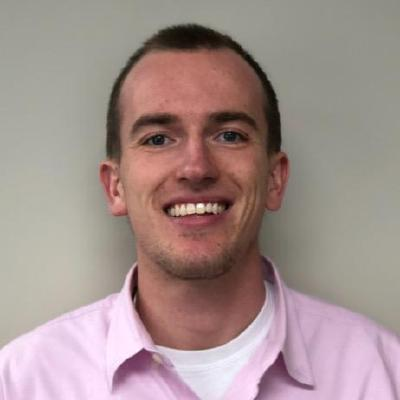
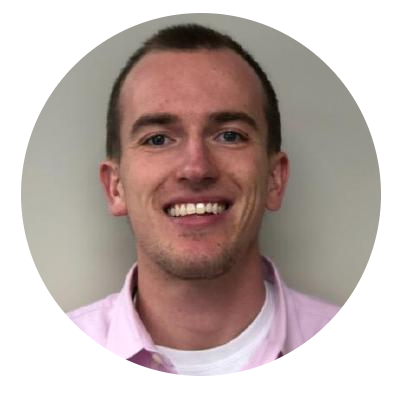
circle picture

diff --git a/src/components/Home/index.jsx b/src/components/Home/index.jsx
@@ -16,8 +16,8 @@ const Home = () => {
         </div>
         <div className ="person">
             <img class="picture"
-            // src={`${process.env.PUBLIC_URL}/`} 
-            // alt="picture"
+            src={`${process.env.PUBLIC_URL}/pinkShirt.png`} 
+            alt="picture"
             />
         </div>
         </div>
